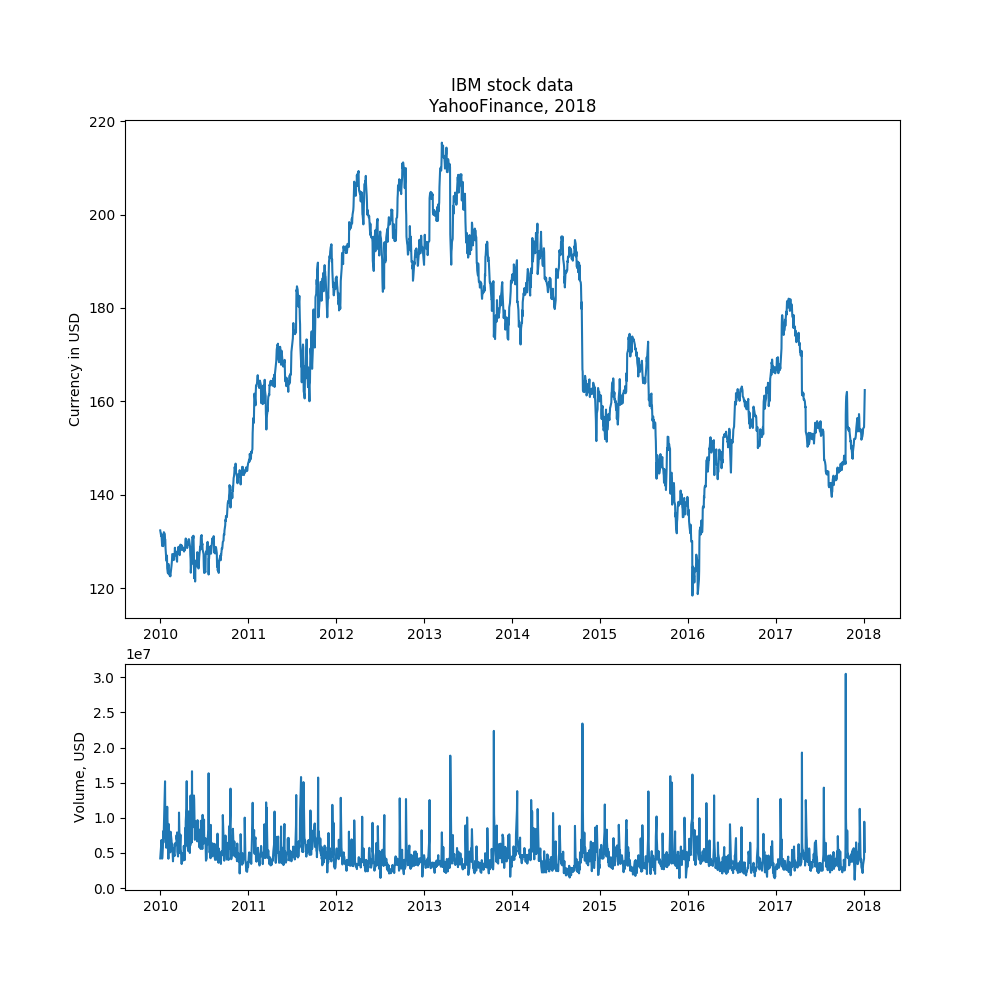
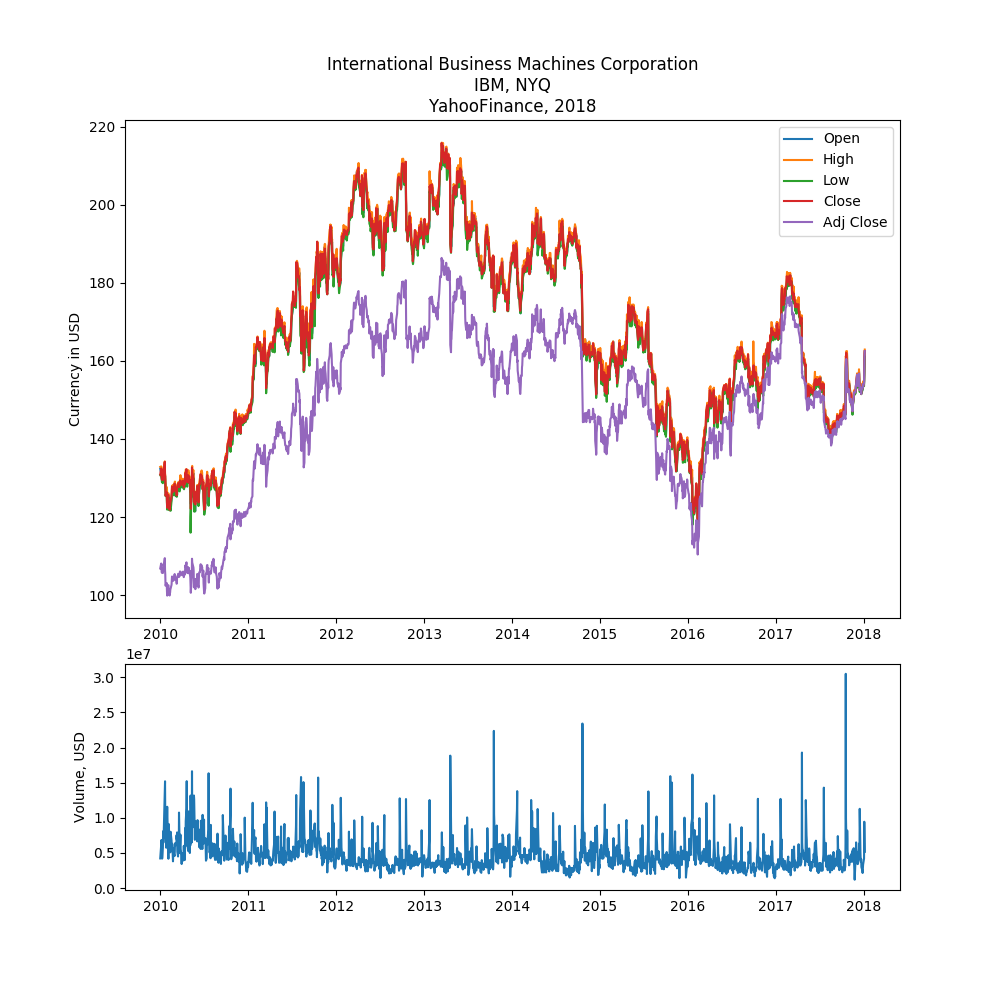
added StockBot

diff --git a/BotTools/interface.py b/BotTools/interface.py
@@ -4,6 +4,15 @@ from commands import Stocks, Quotes
 from config import *
 
 
+def usr2str(usr):
+    return "{} {} ({}, {})".format(
+        usr['first_name'],
+        usr['last_name'],
+        usr['username'],
+        usr['id']
+    )
+
+
 class Interface:
 
     def __init__(self):
@@ -22,13 +31,14 @@ class Interface:
     @staticmethod
     def start(bot, update):
         user = update.message.from_user
-        logging.info('Saying hi to {}'.format(user))
-        bot.send_message(chat_id=update.message.chat_id, text="Chat with me!")
+        logging.info('Saying hi to {}'.format(usr2str(user)))
+        bot.send_message(chat_id=update.message.chat_id, text="Send stock index, which you wish find\n"
+                                                              "To get stock data, send /get + #INDEX_NAME#\n")
 
     @staticmethod
     def echo(bot, update):
         user = update.message.from_user
-        logging.info("Repeat after user {}, text: u'{}'".format(user, update.message.text))
+        logging.info("Repeat after user {}, text: u'{}'".format(usr2str(user), update.message.text))
         bot.send_message(chat_id=update.message.chat_id, text=update.message.text)
 
     @staticmethod
@@ -37,26 +47,25 @@ class Interface:
         quoter = Quotes(
             os.path.join(ROOT, 'data/Havamal_quotes.csv')
         )
-        logging.info('Sending quotation for {}'.format(user))
+        logging.info('Sending quotation for {}'.format(usr2str(user)))
         bot.send_message(chat_id=update.message.chat_id, text=quoter.random_quote())
 
     @staticmethod
-    def search_stock(bot, update, args):
+    def search_stock(bot, update):
         user = update.message.from_user
         stack_updater = Stocks(
             os.path.join(ROOT, 'data/yahoo')
         )
-        request = " ".join(args)
-        logging.info('{} request search'.format(user))
+        request = update.message.text
+        logging.info('{} request search'.format(usr2str(user)))
         logging.info('Searching for {} stock info'.format(request))
         match = stack_updater.find_match(request)
         if match is None:
             logging.warning("Couldn't  find {} stock info".format(request))
-            bot.send_message(chat_id=update.message.chat_id, text="Can't find it")
+            bot.send_message(chat_id=update.message.chat_id, text="Can't find that")
         else:
             logging.info("{} stock info founded".format(request))
             Stocks.data_frame2png(match[:19], os.path.join(ROOT, 'workspace/stocks/table.html'))
-            #bot.send_message(chat_id=update.message.chat_id, text=ans)
             bot.send_message(chat_id=update.message.chat_id, text="For your request I found:")
             bot.send_photo(
                 chat_id=update.message.chat_id,
@@ -70,16 +79,16 @@ class Interface:
             os.path.join(ROOT, 'data/yahoo')
         )
         request = " ".join(args)
-        logging.info("{} request load data".format(user))
-        bot.send_message(chat_id=update.message.chat_id, text="Loading stock data, wait a minute...")
+        logging.info("{} request load data".format(usr2str(user)))
+        bot.send_message(chat_id=update.message.chat_id, text="Loading data, wait a minute")
         logging.info("Loading stock data for {}".format(request))
         data = stock_updater.get_stock_data(request)
         if data is None:
             logging.warning("Couldn't  load {} stock data".format(request))
-            bot.send_message(chat_id=update.message.chat_id, text="I can't find that")
+            bot.send_message(chat_id=update.message.chat_id, text="There is no {} index".format(request))
         else:
             logging.info("Got {} stock data, plotting...".format(request))
-            Stocks.plot_data(data, request, os.path.join(ROOT, 'workspace/stocks/stocks.png'))
+            stock_updater.plot_data(data, request, os.path.join(ROOT, 'workspace/stocks/stocks.png'))
             logging.info("Finish plotting, sending photo")
             bot.send_photo(
                 chat_id=update.message.chat_id,

diff --git a/StockBot.py b/StockBot.py
@@ -1,6 +1,5 @@
 import sys
 from BotTools import Interface
-from key import TOKEN
 from telegram.ext import Updater, CommandHandler, MessageHandler, Filters
 
 if __name__ == '__main__':
@@ -8,22 +7,21 @@ if __name__ == '__main__':
     reload(sys)
     sys.setdefaultencoding('utf-8')
 
-    updater = Updater(TOKEN)
+    with open('token_StockBot', mode='r') as f:
+        __token__ = f.readline()
+
+    updater = Updater(__token__)
     dispatcher = updater.dispatcher
 
     Interface()
 
     start_handler = CommandHandler('start', Interface.start)
-    quote_handler = CommandHandler('wisdom', Interface.rand_quote)
-    find_stocks = CommandHandler('find', Interface.search_stock, pass_args=True)
+    find_stocks = MessageHandler(Filters.text, Interface.search_stock)
     load_stocks = CommandHandler('get', Interface.get_stock, pass_args=True)
-    echo_handler = MessageHandler(Filters.text, Interface.echo)
 
     dispatcher.add_handler(start_handler)
-    dispatcher.add_handler(quote_handler)
-    dispatcher.add_handler(find_stocks)
     dispatcher.add_handler(load_stocks)
-    dispatcher.add_handler(echo_handler)
+    dispatcher.add_handler(find_stocks)
 
     updater.start_polling()
     updater.idle()

diff --git a/BotTools/commands.py b/BotTools/commands.py
@@ -88,8 +88,7 @@ class Stocks:
         os.system("cutycapt --url=file://{} --out={}".format(path, path[:-5]+'.png'))
         return True
 
-    @staticmethod
-    def plot_data(data, ticker, path):
+    def plot_data(self, data, ticker, path):
         """
         Plot and save stock data
         :param data: pd.DataFrame
@@ -99,9 +98,19 @@ class Stocks:
         """
         fig = plt.figure(figsize=(10, 10))
 
+        kfv = lambda d, v: d.keys()[d.values().index(v)]
+
+        idx = kfv(self.stock_list['Ticker'].to_dict(), ticker)
+        info = self.stock_list.loc[idx]
+
         ax1 = plt.subplot2grid((3, 3), (0, 0), colspan=3, rowspan=2)
-        ax1.set_title('{} stock data'.format(ticker) + '\nYahooFinance, 2018')
+        ax1.set_title(info['Name'] + '\n' + info['Ticker'] + ', ' + info['Exchange'] + '\nYahooFinance, 2018')
         ax1.plot(data['Open'], label='Open')
+        ax1.plot(data['High'], label='High')
+        ax1.plot(data['Low'], label='Low')
+        ax1.plot(data['Close'], label='Close')
+        ax1.plot(data['Adj Close'], label='Adj Close')
+        ax1.legend()
         ax1.set_ylabel('Currency in USD')
 
         ax2 = plt.subplot2grid((3, 3), (2, 0), colspan=3)

diff --git a/test/test_all.py b/test/test_all.py
@@ -5,7 +5,7 @@ from BotTools import Quotes, Stocks
 ROOT = os.path.abspath("../")
 
 
-class RandomQuoteTest(unittest.TestCase):
+class QuoteTest(unittest.TestCase):
 
     def test(self):
         quoter = Quotes(
@@ -50,7 +50,7 @@ class StockTest(unittest.TestCase):
         )
 
         match = updater.find_match('Microsoft')
-        res = Stocks.data_frame2png(match[:9], os.path.join(ROOT, 'workspace/stocks/test.html'))
+        res = Stocks.data_frame2png(match[:19], os.path.join(ROOT, 'workspace/stocks/table.html'))
         self.assertIs(res, True)
 
     def test_plot(self):
@@ -61,5 +61,5 @@ class StockTest(unittest.TestCase):
         data = updater.get_stock_data('IBM')
 
         self.assertIs(
-            Stocks.plot_data(data, 'IBM', os.path.join(ROOT, 'workspace/stocks/stocks.png')), True
+            updater.plot_data(data, 'IBM', os.path.join(ROOT, 'workspace/stocks/stocks.png')), True
         )

diff --git a/README.md b/README.md
@@ -1,2 +1,11 @@
 # TelegramBots
 Bots for Telegram
+
+Require:
+
+    python-telegram
+    pandas
+    matplotplib
+    pandas-datareader
+    cutycapt
+    
